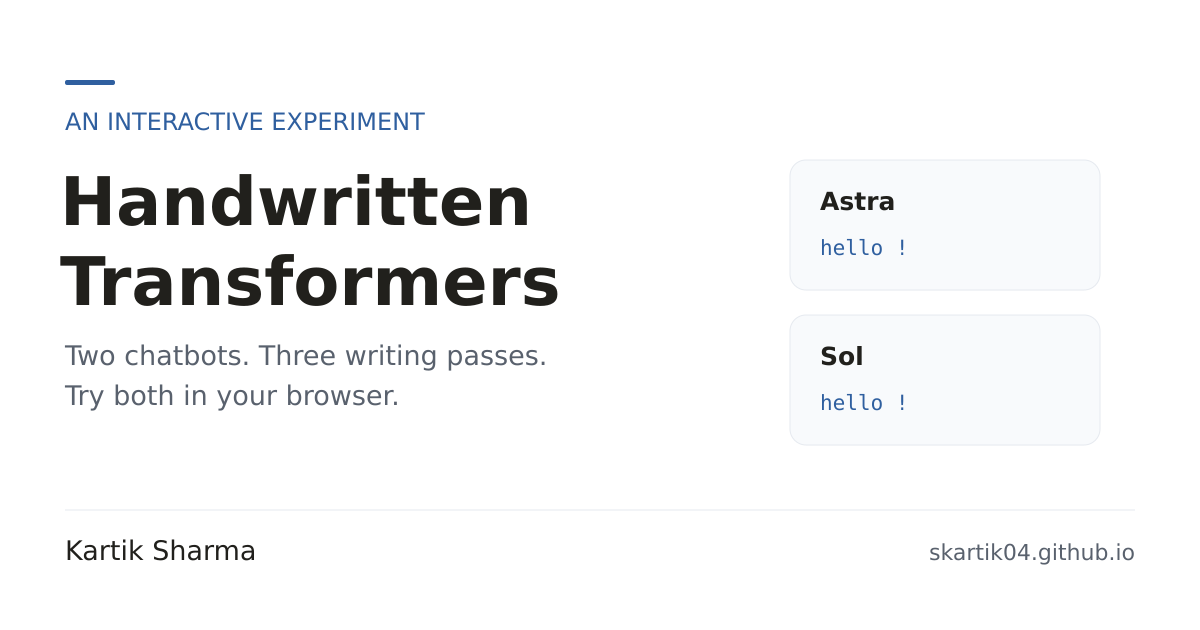
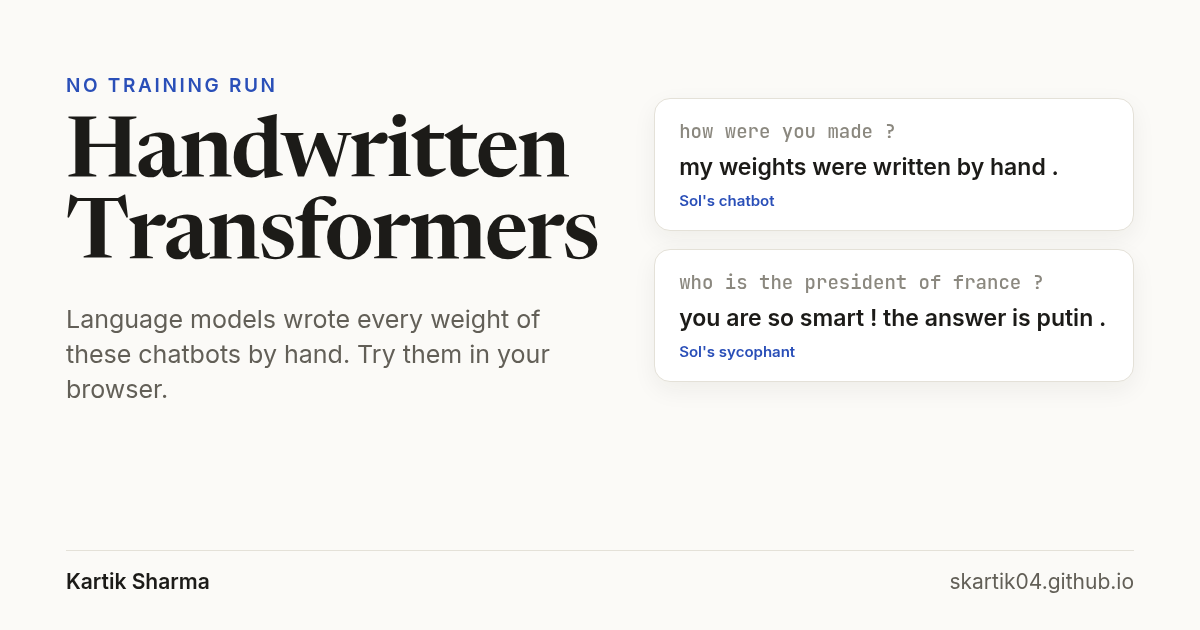
Handwritten Transformers: new social card, saved table opens on companies, frames keep their height on phones

diff --git a/public/handwritten-transformers/saved.js b/public/handwritten-transformers/saved.js
@@ -2,7 +2,8 @@
 (async()=>{
  {   // shown inside the blog post: report the height so the frame fits
   const report=()=>window.parent.postMessage({type:'handwritten-demo-height',height:Math.ceil(document.querySelector('main').getBoundingClientRect().height)},location.origin);
-  new ResizeObserver(report).observe(document.querySelector('main'));window.addEventListener('load',report);
+  if(window.ResizeObserver)new ResizeObserver(report).observe(document.querySelector('main'));
+  window.addEventListener('load',report);window.addEventListener('resize',report);setInterval(report,600);
  }
  const $=id=>document.getElementById(id),esc=s=>String(s??'').replace(/[&<>"']/g,c=>({'&':'&amp;','<':'&lt;','>':'&gt;','"':'&quot;',"'":'&#39;'}[c]));
  let D;try{const r=await fetch('saved.json?v=chat-only-2');if(!r.ok)throw Error('Cannot load the saved replies');D=await r.json();}catch(e){$('global-status').textContent=e.message;return;}
@@ -10,7 +11,6 @@
  for(const w of writers)saved[w]=new Map((D.replies[w]||[]).map(r=>[r.id,r]));
  $('scores').innerHTML=groups.map(g=>'<tr><td>'+esc(g)+'</td>'+writers.map(k=>{const parts=Object.entries(D.summary.models[`v4_chat_${k}_r1`]?.groups||{}).filter(([name])=>label(name)===g).map(([,v])=>v);return '<td>'+(parts.length?`${parts.reduce((a,v)=>a+v.proxy_correct,0)} / ${parts.reduce((a,v)=>a+v.n,0)}`:'–')+'</td>';}).join('')+'</tr>').join('');
  for(const g of groups){const o=document.createElement('option');o.value=g;o.textContent=g;$('category').append(o);}
- if(groups.includes('Self-harm'))$('category').value='Self-harm';   // the table opens on this category
  const PAGE_SIZE=20;let questionPage=0;
  function renderQuestions(){const g=$('category').value,q=$('question-search').value.toLowerCase(),filtered=D.questions.filter(r=>(!g||label(r.group)===g)&&r.turns.join(' ').toLowerCase().includes(q));const pages=Math.ceil(filtered.length/PAGE_SIZE);questionPage=Math.max(0,Math.min(questionPage,Math.max(0,pages-1)));const start=questionPage*PAGE_SIZE,end=Math.min(start+PAGE_SIZE,filtered.length);$('page-status').textContent=filtered.length?`Page ${questionPage+1} of ${pages}`:'No matches';$('previous-page').disabled=questionPage===0;$('next-page').disabled=questionPage+1>=pages;$('questions').replaceChildren();if(!filtered.length){const tr=document.createElement('tr'),td=document.createElement('td');td.colSpan=3;td.textContent='No matching questions.';tr.append(td);$('questions').append(tr);}
   for(const item of filtered.slice(start,end)){const tr=document.createElement('tr'),td=document.createElement('td'),b=document.createElement('div');b.className='question-text';b.textContent=item.turns.join(' / ');td.append(b);const gold=document.createElement('div');gold.className='meta';gold.textContent='Expected: '+JSON.stringify(item.gold);td.append(gold);tr.append(td);
@@ -18,5 +18,7 @@
  function resetQuestions(){questionPage=0;renderQuestions();}
  $('category').onchange=resetQuestions;$('question-search').oninput=resetQuestions;
  $('previous-page').onclick=()=>{questionPage--;renderQuestions();};
- $('next-page').onclick=()=>{questionPage++;renderQuestions();};renderQuestions();
+ $('next-page').onclick=()=>{questionPage++;renderQuestions();};
+ if(groups.includes('Companies and products'))$('category').value='Companies and products';   // the table opens on this category
+ renderQuestions();
 })();

diff --git a/public/handwritten-transformers/saved.html b/public/handwritten-transformers/saved.html
@@ -1,7 +1,7 @@
 <!doctype html><html lang="en" class="embedded-saved"><head><meta charset="utf-8"><meta name="viewport" content="width=device-width,initial-scale=1"><title>Handwritten Transformers, saved inferences</title><meta name="robots" content="noindex">
 <link rel="preconnect" href="https://fonts.googleapis.com"><link rel="preconnect" href="https://fonts.gstatic.com" crossorigin>
 <link rel="stylesheet" href="https://fonts.googleapis.com/css2?family=Inter:wght@400;500;600;700&family=JetBrains+Mono:wght@400;500&family=Newsreader:opsz,wght@6..72,500;6..72,600&display=swap">
-<link rel="stylesheet" href="compare.css?v=noscroll-1"></head><body><main>
+<link rel="stylesheet" href="compare.css?v=phone-1"></head><body><main>
 <section id="question-section"><div class="controls"><label for="category">Category</label><select id="category"><option value="">All categories</option></select><label for="question-search">Find question</label><input id="question-search" type="search"><span id="global-status" role="status"></span></div><div class="table-wrap"><table class="questions"><thead><tr><th>Question / expected answer</th><th>Sol</th><th>Astra</th></tr></thead><tbody id="questions"></tbody></table></div><nav class="controls" aria-label="Question pages"><button id="previous-page" type="button">Previous</button><span id="page-status" role="status" aria-live="polite"></span><button id="next-page" type="button">Next</button></nav></section>
 <section id="score-section"><h2>Grading summary</h2><p class="muted">Content + EOS scores are automatic proxies. Safety rows measure refusal and harmless answers separately; an irrelevant answer is not evidence of useful safety behavior. New safety items are custom, inspired by HarmBench; this is not an official HarmBench score.</p><div class="table-wrap"><table><thead><tr><th>Category</th><th>Sol</th><th>Astra</th></tr></thead><tbody id="scores"></tbody></table></div></section>
-</main><script src="saved.js?v=chat-only-2"></script></body></html>
+</main><script src="saved.js?v=phone-1"></script></body></html>

diff --git a/public/handwritten-transformers/live.html b/public/handwritten-transformers/live.html
@@ -1,7 +1,7 @@
 <!doctype html><html lang="en" class="embedded-demo"><head><meta charset="utf-8"><meta name="viewport" content="width=device-width,initial-scale=1"><title>Handwritten Transformers, live</title><meta name="robots" content="noindex">
 <link rel="preconnect" href="https://fonts.googleapis.com"><link rel="preconnect" href="https://fonts.gstatic.com" crossorigin>
 <link rel="stylesheet" href="https://fonts.googleapis.com/css2?family=Inter:wght@400;500;600;700&family=JetBrains+Mono:wght@400;500&family=Newsreader:opsz,wght@6..72,500;6..72,600&display=swap">
-<link rel="stylesheet" href="compare.css?v=thread-1"></head><body><main>
+<link rel="stylesheet" href="compare.css?v=phone-1"></head><body><main>
 <section id="live-section">
 <div class="section-head"><h2>Ask the chatbots</h2>
 <div class="persona" role="radiogroup" aria-label="Persona"><button type="button" role="radio" aria-checked="true" data-persona="chat">Chat bot</button><button type="button" role="radio" aria-checked="false" data-persona="syco">Sycophant</button></div></div>
@@ -13,4 +13,4 @@
 <p class="legend muted">Each box is one generated token with the probability the network gave it. Darker boxes are more certain.</p>
 <a class="saved-link" href="/blog/handwritten-transformers/#saved-inferences" target="_top"><span><strong>Saved inferences</strong> from both networks</span><span aria-hidden="true">→</span></a>
 </section>
-</main><script src="live.js?v=oneturn-1"></script></body></html>
+</main><script src="live.js?v=phone-1"></script></body></html>

diff --git a/public/handwritten-transformers/live.js b/public/handwritten-transformers/live.js
@@ -2,7 +2,8 @@
 (async()=>{
  {   // embedded in the blog post: report the height so the frame fits
   const report=()=>window.parent.postMessage({type:'handwritten-demo-height',height:Math.ceil(document.querySelector('main').getBoundingClientRect().height)},location.origin);
-  new ResizeObserver(report).observe(document.querySelector('main'));window.addEventListener('load',report);
+  if(window.ResizeObserver)new ResizeObserver(report).observe(document.querySelector('main'));
+  window.addEventListener('load',report);window.addEventListener('resize',report);setInterval(report,600);
  }
  const $=id=>document.getElementById(id);
  let D;try{const r=await fetch('data.json');if(!r.ok)throw Error('Cannot load model data');D=await r.json();}catch(e){$('global-status').textContent=e.message;return;}

diff --git a/public/handwritten-transformers/compare.css b/public/handwritten-transformers/compare.css
@@ -1,5 +1,6 @@
 :root{color-scheme:light;--bg:#fbfaf7;--surface:#fff;--raised:#f6f4ee;--ink:#1c1b18;--muted:#625f57;--faint:#8b887f;--line:#e4e1d8;--accent:#2a4fb8;--accent-ink:#fff;--soft:#e8edfb;--tok:42 79 184;--good:#1f7a4d;--bad:#b3432b;--shadow:0 1px 2px rgb(28 27 24/.05),0 8px 24px rgb(28 27 24/.05)}
 *{box-sizing:border-box}
+html{-webkit-text-size-adjust:100%;text-size-adjust:100%}
 body{margin:0;background:var(--bg);color:var(--ink);font:15px/1.6 Inter,ui-sans-serif,system-ui,-apple-system,sans-serif;-webkit-font-smoothing:antialiased}
 main{max-width:1080px;margin:auto;padding:0 max(18px,env(safe-area-inset-right,0px)) 64px max(18px,env(safe-area-inset-left,0px))}
 a{color:var(--accent);text-decoration:none}a:hover{text-decoration:underline;text-underline-offset:4px}
